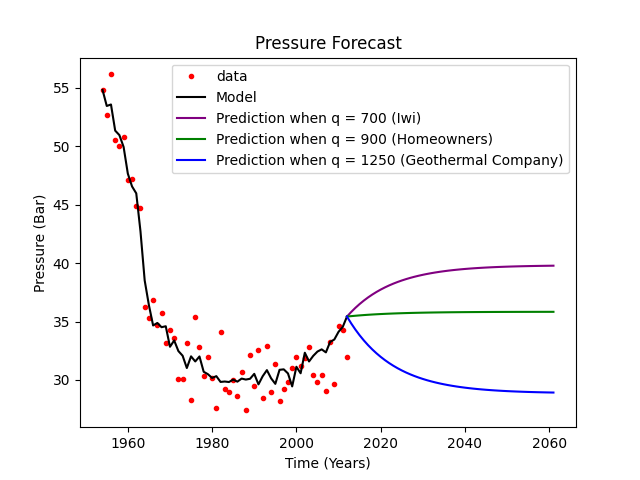
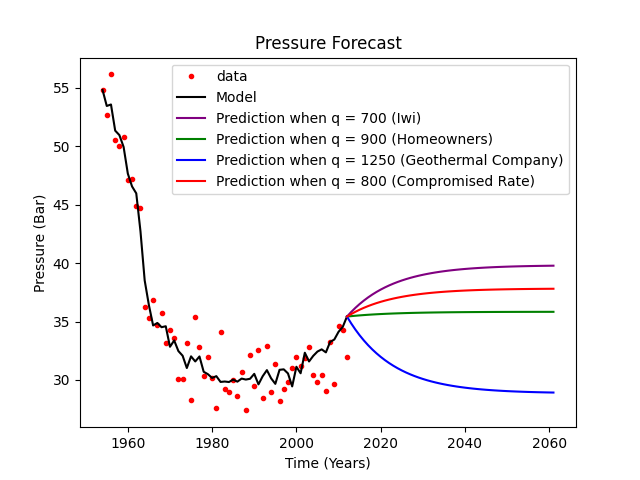
Added our prediction to the forecast

Changed region(s): [[0.2812, 0.3438, 0.8438, 0.4062], [0.5938, 0.5938, 0.875, 0.625], [0.5312, 0.625, 0.5938, 0.6562]]

diff --git a/plot.py b/plot.py
@@ -468,6 +468,10 @@ def plot_x_forecast():
     x3 = solve_ode_prediction(ode_model, t1[0], t1[-1], t1[1] - t1[0], xi, q3, a, b, c, 0, x0)[1]
     ax1.plot(t1, x3, 'blue', label='Prediction when q = 1250 (Geothermal Company)')
 
+    q4 = 800
+    x4 = solve_ode_prediction(ode_model, t1[0], t1[-1], t1[1] - t1[0], xi, q4, a, b, c, 0, x0)[1]
+    ax1.plot(t1, x4, 'red', label='Prediction when q = 800 (Compromised Rate)')
+
     # Axis information
     ax1.set_title('Pressure Forecast')
     ax1.set_ylabel('Pressure (Bar)')
